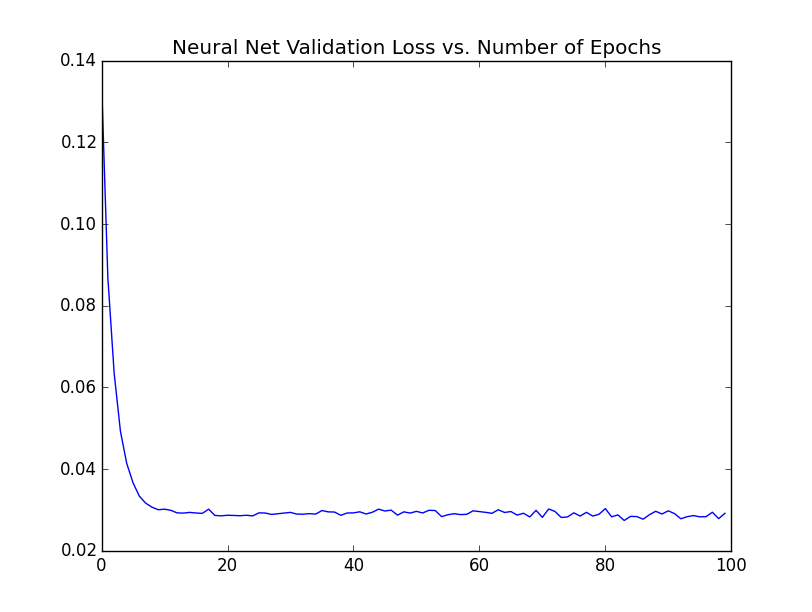
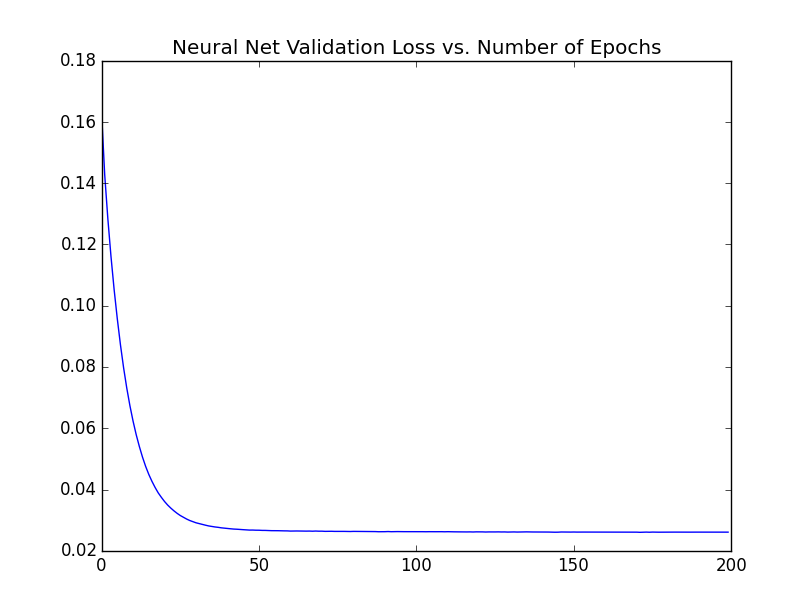
Reran parts 2.2.1, 2.3.1, 2.3.2

diff --git a/part2_3_1.py b/part2_3_1.py
@@ -54,11 +54,11 @@ if __name__ == '__main__':
         M = trainData.shape[0]
         N = trainData.shape[1]
 
-        learning_rate = 0.01
+        learning_rate = 0.001
         weight_decay = 3e-4
         batch_size = 500
 
-        hidden_units = 100
+        hidden_units = 1000
 
         z1, flattened_w1 = hidden_layer(tf.transpose(dataInput), N, hidden_units)
         z2, flattened_w2 = hidden_layer(tf.nn.relu(z1), hidden_units, 10)
@@ -81,7 +81,7 @@ if __name__ == '__main__':
         testingAccuracies = []
         validationLosses = []
         validationAccuracies = []
-        for j in range(100):
+        for j in range(200):
             print("Epoch " + str(j))
             for i in range(0, M, batch_size):
                 # Perform the update
@@ -109,7 +109,7 @@ if __name__ == '__main__':
                      })
             validationLosses.append(err)
             validationAccuracies.append(accuracy)
-        print(testAccuracies[-1])
+        print(testingAccuracies[-1])
         plt.figure(1)
         plt.plot(trainingLosses)
         plt.title('Neural Net Training Loss vs. Number of Epochs')

diff --git a/part2_3_2.py b/part2_3_2.py
@@ -54,7 +54,7 @@ if __name__ == '__main__':
         M = trainData.shape[0]
         N = trainData.shape[1]
 
-        learning_rate = 0.01
+        learning_rate = 0.001
         weight_decay = 3e-4
         batch_size = 500
 
@@ -82,7 +82,7 @@ if __name__ == '__main__':
         testingAccuracies = []
         validationLosses = []
         validationAccuracies = []
-        for j in range(100):
+        for j in range(200):
             print("Epoch " + str(j))
             for i in range(0, M, batch_size):
                 # Perform the update

diff --git a/part2_2_1.py b/part2_2_1.py
@@ -54,7 +54,7 @@ if __name__ == '__main__':
         M = trainData.shape[0]
         N = trainData.shape[1]
 
-        learning_rate = 0.01
+        learning_rate = 0.001
         weight_decay = 3e-4
         batch_size = 500
 
